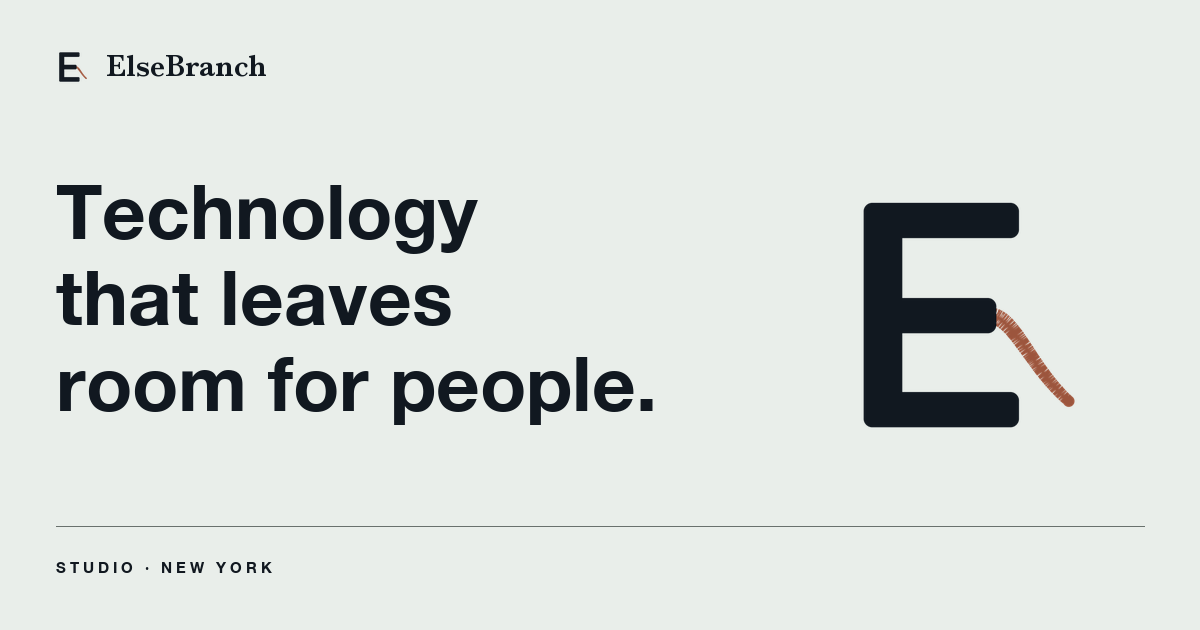
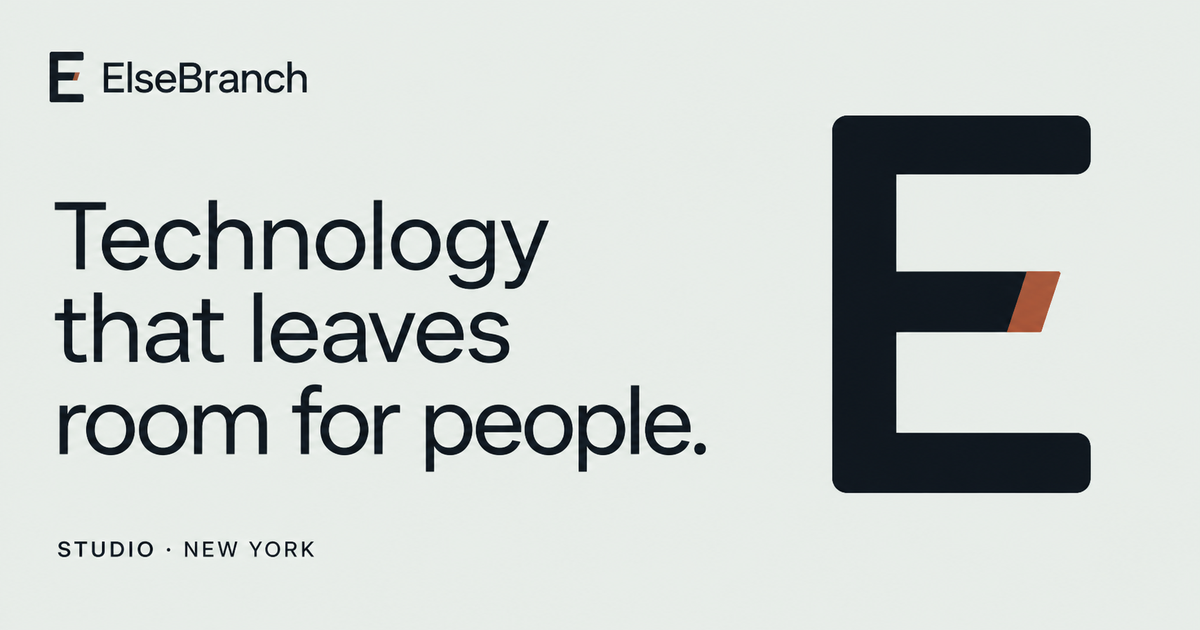
Update ElseBranch to the cut-plane E identity (#10)
Replace the previous mark across the site, favicon set, touch icon, and social card. Bump asset cache keys so the public site requests the new identity.

diff --git a/index.html b/index.html
@@ -10,15 +10,15 @@
 <meta property="og:description" content="Technology that leaves room for people. Five products from an independent New York studio.">
 <meta property="og:url" content="https://elsebranch.com/">
 <meta property="og:type" content="website">
-<meta property="og:image" content="https://elsebranch.com/assets/og-card-elsebranch-premium.png">
+<meta property="og:image" content="https://elsebranch.com/assets/og-card-elsebranch-cut-plane.png">
 <meta property="og:image:width" content="1200">
 <meta property="og:image:height" content="630">
 <meta property="og:image:alt" content="ElseBranch — Technology that leaves room for people.">
 <meta name="twitter:card" content="summary_large_image">
 <meta name="theme-color" content="#E9EEEA">
-<link rel="icon" href="favicon.ico?v=elsebranch-5" sizes="any">
-<link rel="icon" type="image/png" sizes="32x32" href="assets/favicon-studio.png?v=elsebranch-5">
-<link rel="apple-touch-icon" href="assets/apple-touch-icon.png?v=elsebranch-5">
+<link rel="icon" href="favicon.ico?v=elsebranch-6" sizes="any">
+<link rel="icon" type="image/png" sizes="32x32" href="assets/favicon-cut-plane.png?v=elsebranch-6">
+<link rel="apple-touch-icon" href="assets/apple-touch-icon.png?v=elsebranch-6">
 <style>
   @font-face {
     font-family: "Fraunces";
@@ -956,7 +956,7 @@
 
 <header class="site-header shell">
   <a class="brand" href="https://elsebranch.com/" aria-label="ElseBranch home">
-    <img class="brand-mark" src="assets/elsebranch-mark.png?v=elsebranch-5" width="42" height="42" alt="" aria-hidden="true">
+    <img class="brand-mark" src="assets/elsebranch-mark-cut-plane.png?v=elsebranch-6" width="42" height="42" alt="" aria-hidden="true">
     <span class="brand-lockup">
       <span class="brand-name">ElseBranch</span>
       <span class="brand-place">Studio · New York</span>
@@ -1155,7 +1155,7 @@
 </main>
 
 <footer class="site-footer shell">
-  <span class="footer-brand"><img class="brand-mark" src="assets/elsebranch-mark.png?v=elsebranch-5" width="28" height="28" alt="" aria-hidden="true"><span>ElseBranch · New York</span></span>
+  <span class="footer-brand"><img class="brand-mark" src="assets/elsebranch-mark-cut-plane.png?v=elsebranch-6" width="28" height="28" alt="" aria-hidden="true"><span>ElseBranch · New York</span></span>
   <span>Scorch · HardBeet · Aurora · Offramp · Magpie Picks · © 2026 ElseBranch Inc.</span>
 </footer>
 
